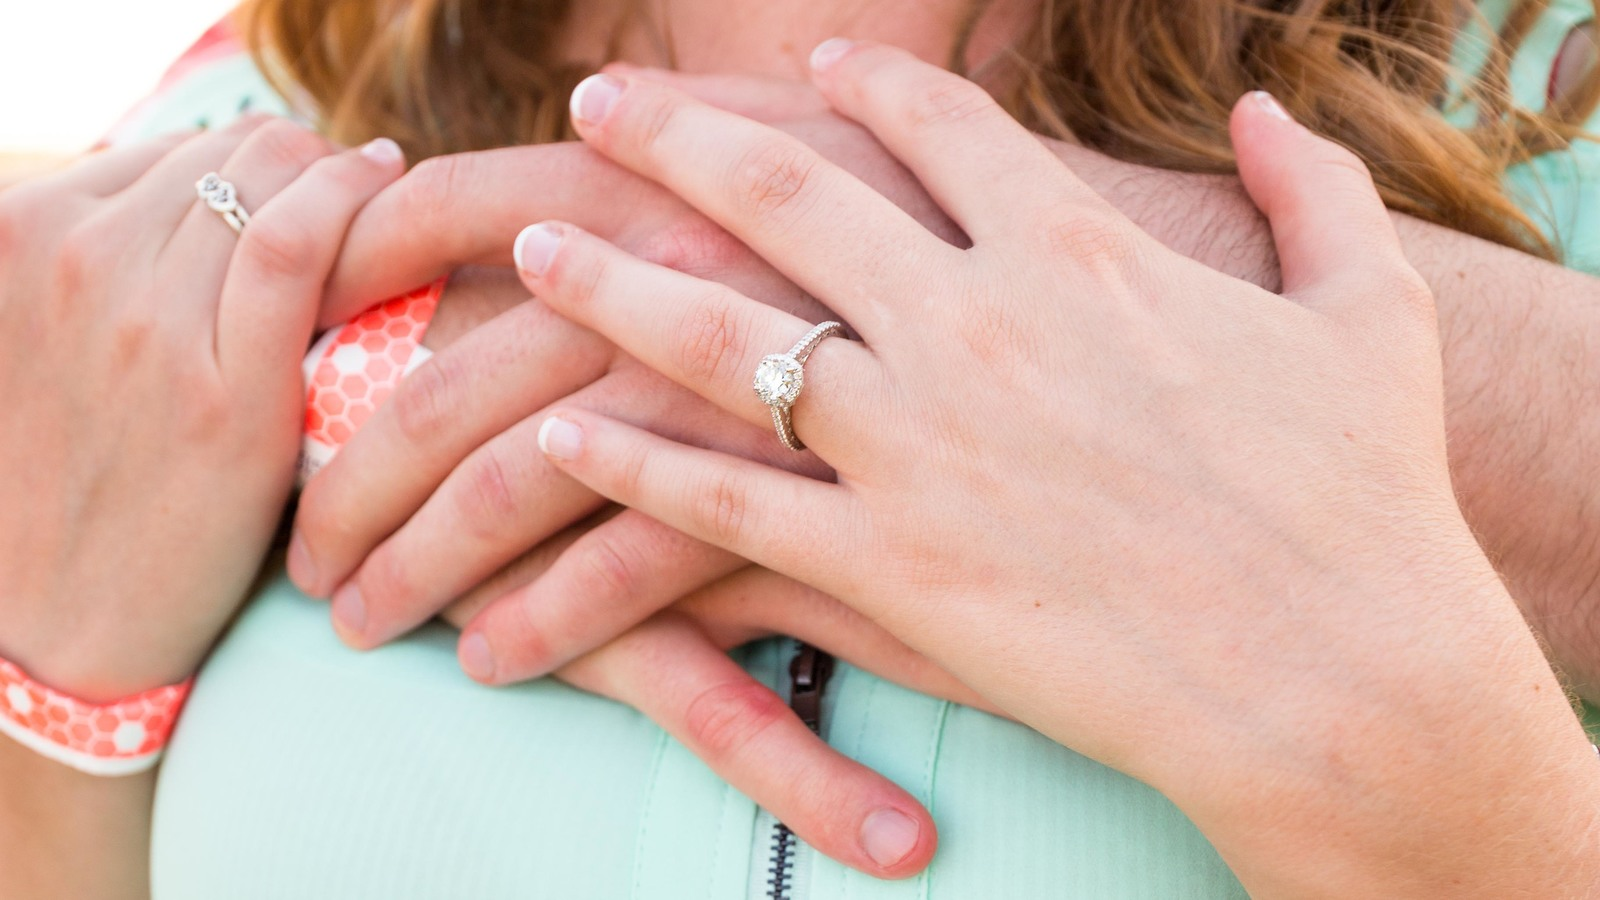
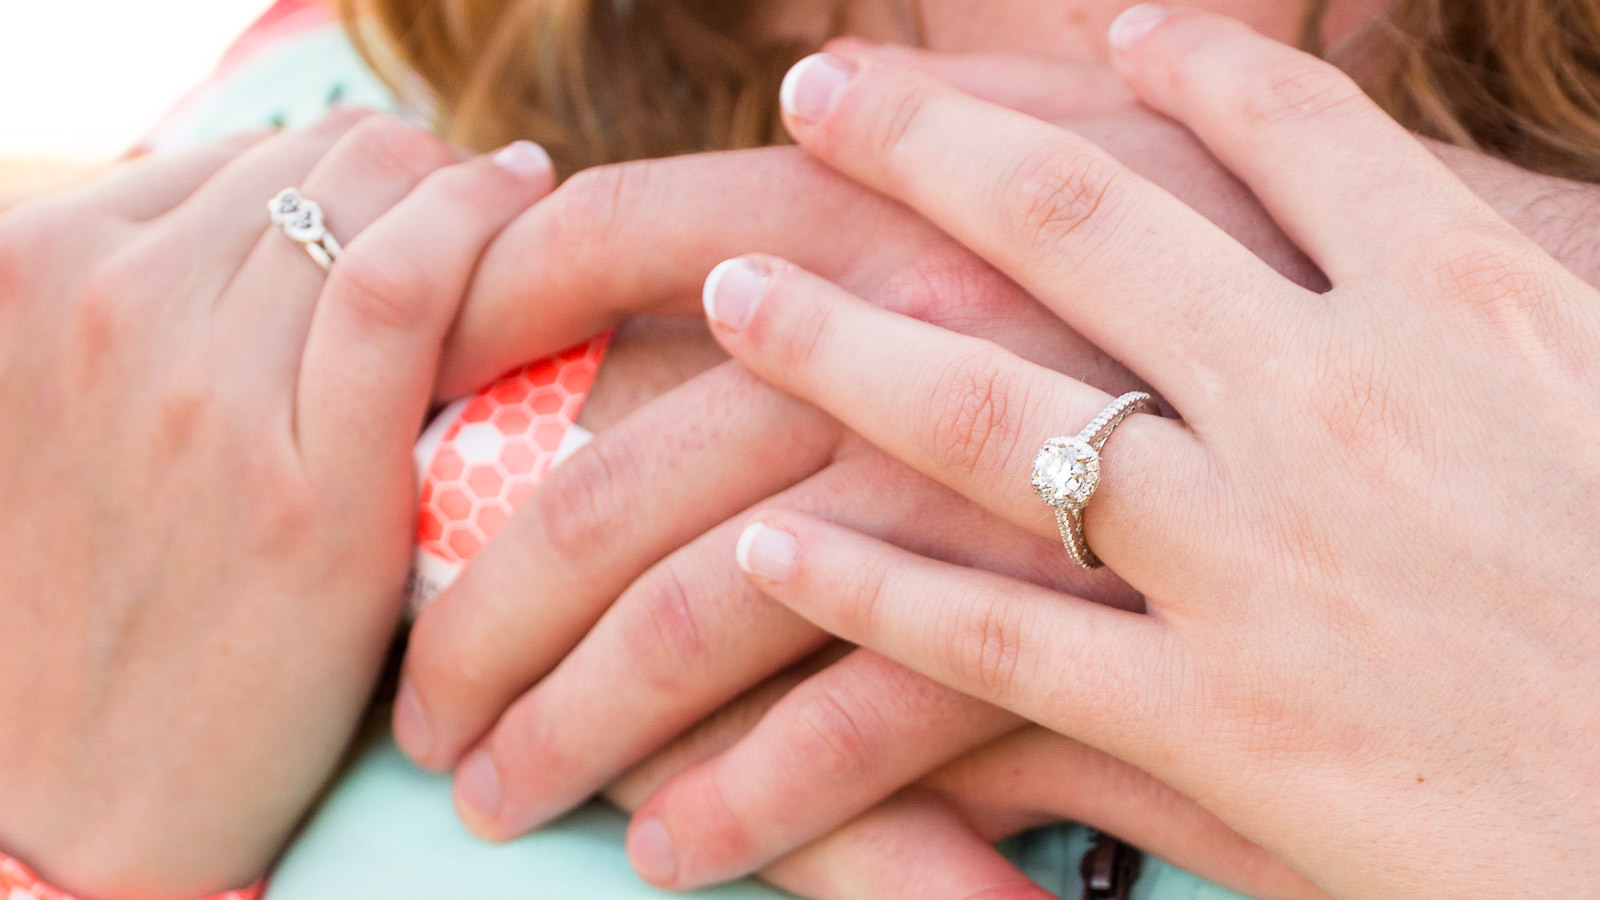
Updated hero images. Fixed April 1st date.

diff --git a/clientlibs/index.html b/clientlibs/index.html
@@ -56,7 +56,7 @@
 		<div id="slides">
 			<div class="slides-container">
 				<img src="images/photos/hero/2014-06-07_20-37-51_00_0.jpg" alt="" />
-				<img src="images/photos/hero/2014-06-05_16-29-34_00_0.jpg" alt="" />
+				<img src="images/photos/hero/2014-10-12_16-19-30_00_0.jpg" alt="" />
 				<img src="images/photos/hero/2015-08-15_20-00-24_01_0.jpg" alt="" />
 <!-- 				<img src="http://placehold.it/1600x900.jpg" alt="" /> -->
 			</div>
@@ -718,7 +718,7 @@
 					</div>
 				</div>
 				<div>
-					<h6>Coming April 1st<sup>st</sup></h6>
+					<h6>Coming April 1<sup>st</sup></h6>
 				</div>
 			</div>
 		</section>
